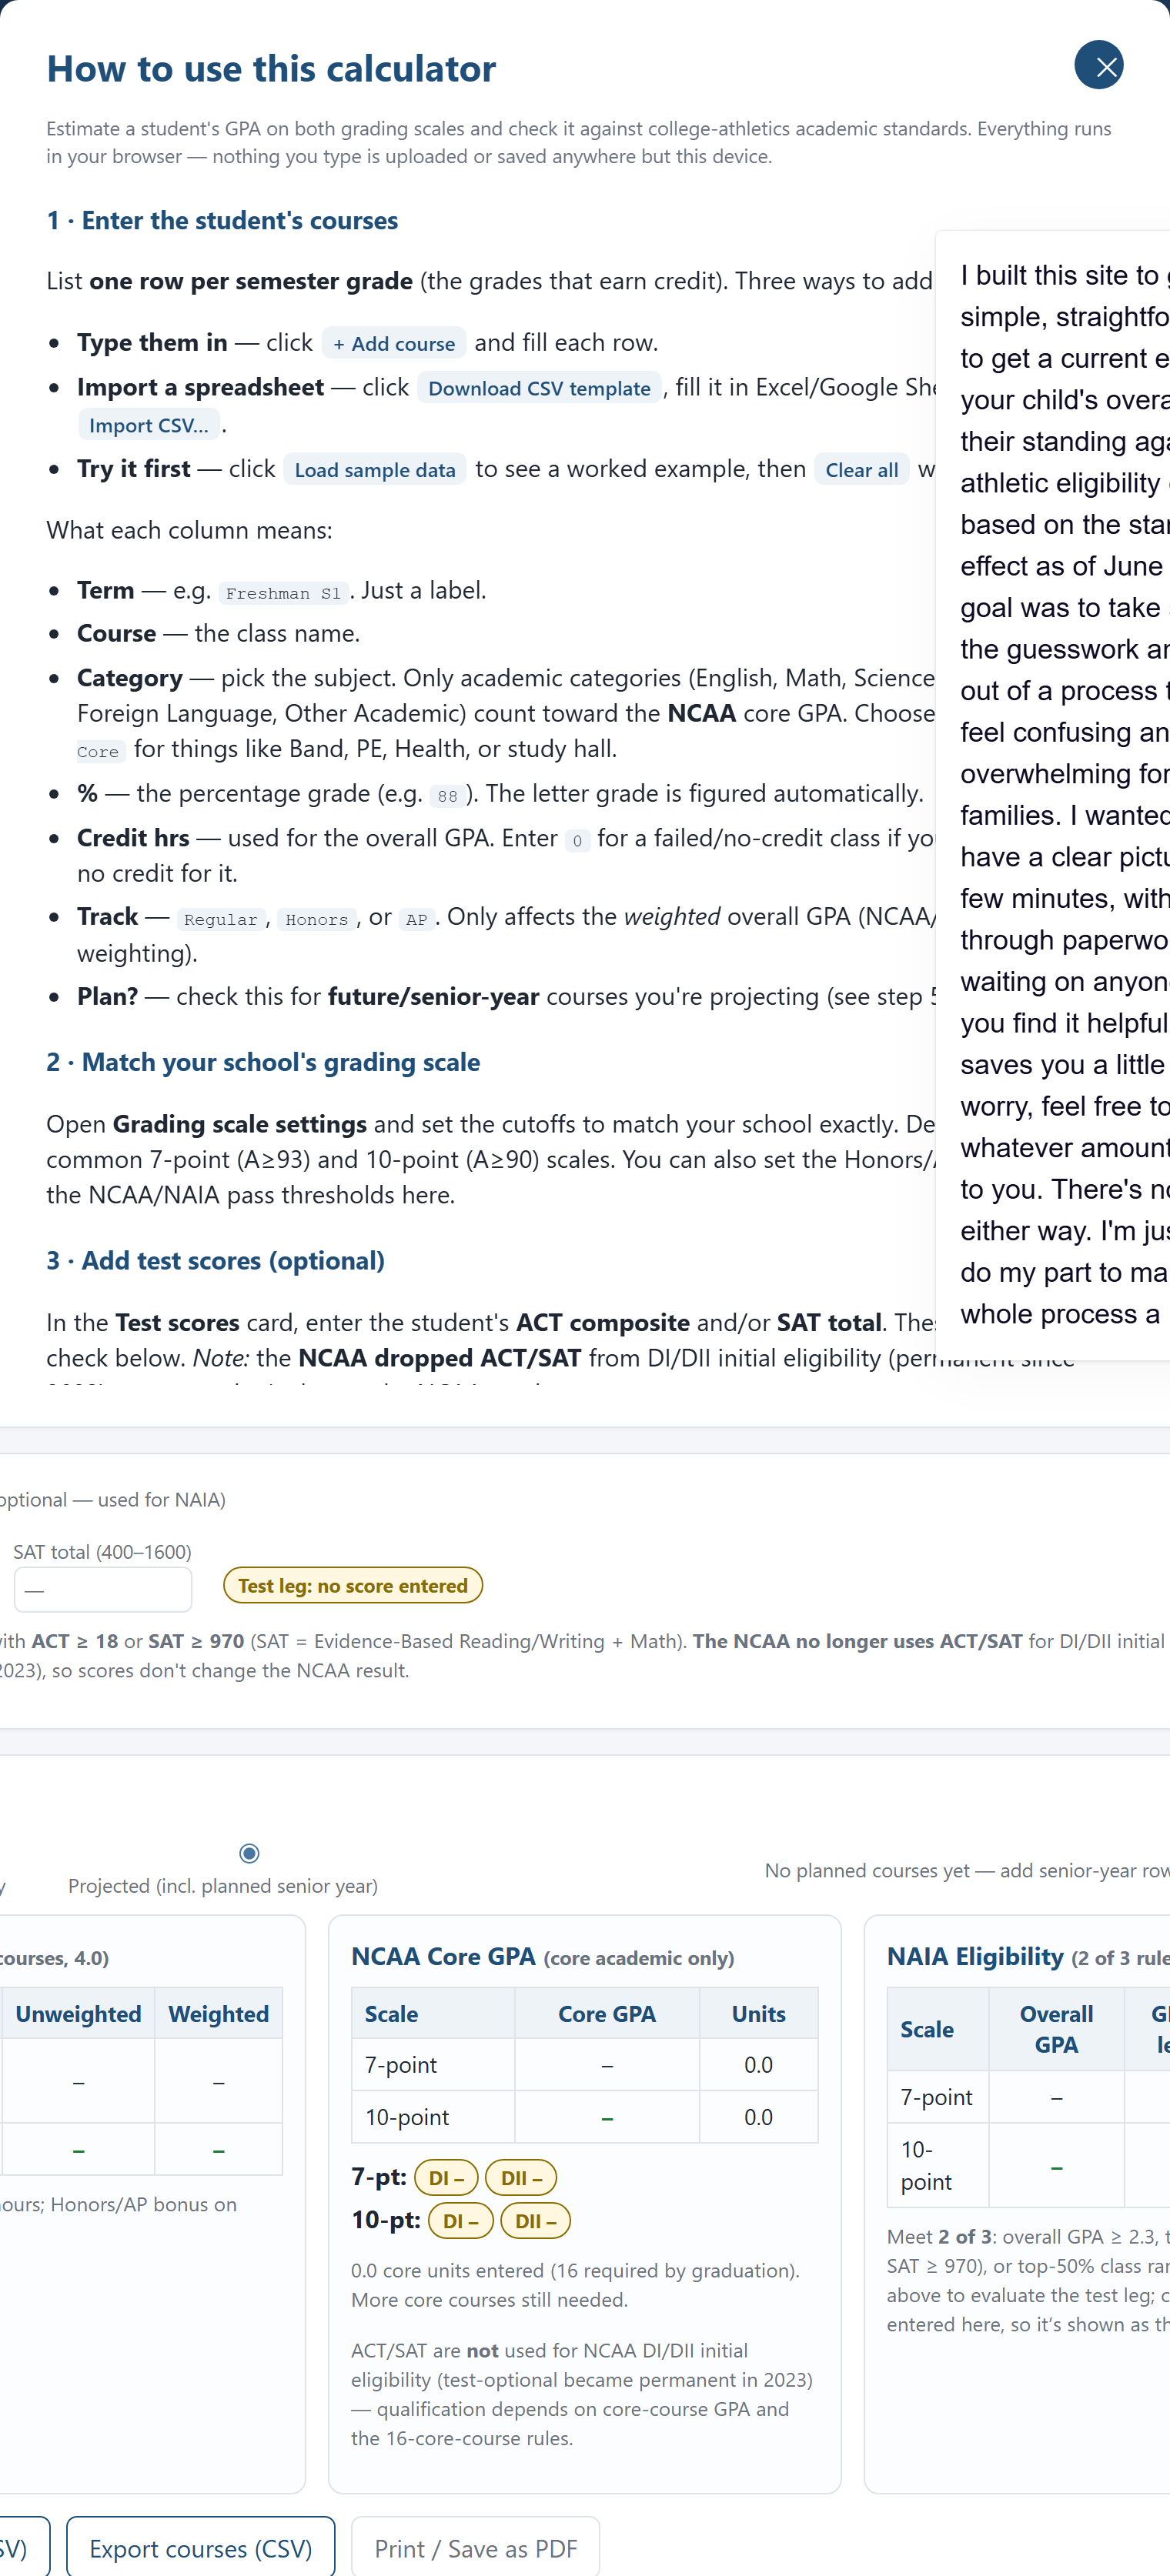
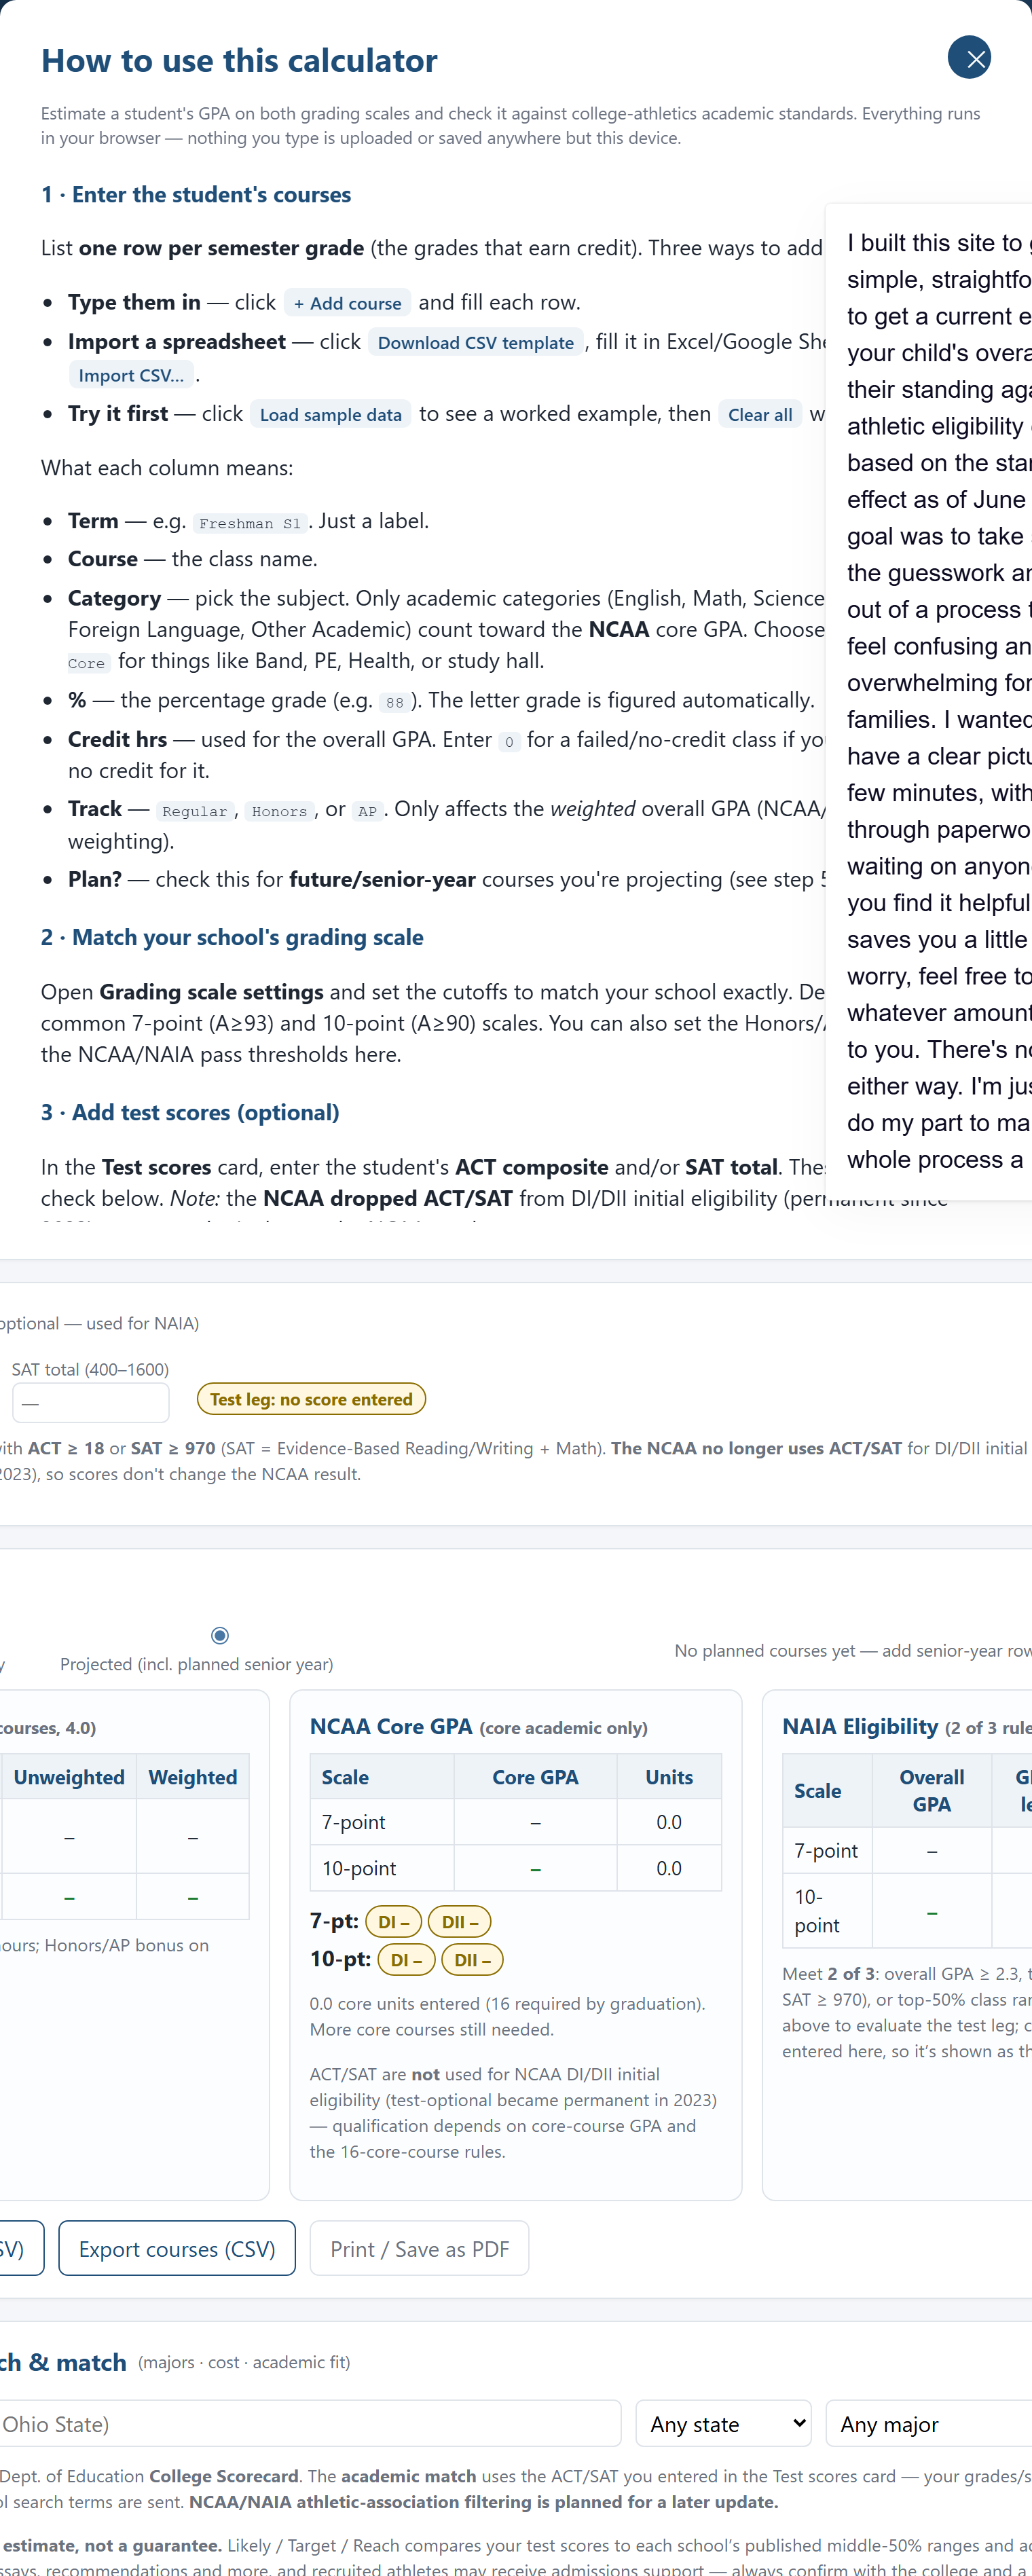
Add College search & match (Phase 1) via College Scorecard
- New card: live search of 4-year colleges by name/state/major using the
  U.S. Dept of Education College Scorecard API (CORS-enabled, free key).
- Shows cost (net price + tuition), admission rate, SAT/ACT mid-50% ranges,
  undergrad size, and the selected major's share of degrees.
- Academic match (Likely/Target/Reach) from the entered ACT/SAT vs each
  school's ranges and selectivity; updates live when scores change.
- Filters to bachelor-granting institutions; sorts by size. Privacy: only
  search terms are sent, scores stay local. Clear estimate-not-a-guarantee
  disclaimers. NCAA/NAIA association filter planned for Phase 2.
- Help guide, README, and screenshots updated.

diff --git a/index.html b/index.html
@@ -83,6 +83,16 @@
   .modal code{background:#eef3f8;padding:1px 5px;border-radius:4px;font-size:.88em}
   .modal .tag{display:inline-block;background:#eef3f8;color:var(--navy);border-radius:6px;padding:1px 7px;font-size:.82rem;font-weight:600;margin:1px}
   .modal .pass{background:var(--greenbg);color:var(--green)} .modal .fail{background:var(--redbg);color:var(--red)}
+  .modal .tag.likely{background:var(--greenbg);color:var(--green)} .modal .tag.target{background:var(--amberbg);color:var(--amber)} .modal .tag.reach{background:var(--redbg);color:var(--red)}
+  .college{border:1px solid var(--line);border-radius:9px;padding:10px 12px;margin:8px 0;background:#fcfdff}
+  .college .top{display:flex;justify-content:space-between;align-items:center;gap:10px;flex-wrap:wrap}
+  .college .nm{font-weight:700;color:var(--navy)}
+  .college .nm a{color:var(--navy)}
+  .college .meta{display:flex;flex-wrap:wrap;gap:6px 16px;margin-top:6px;font-size:.85rem}
+  .college .meta b{color:var(--navy)}
+  .badge.likely{background:var(--greenbg);color:var(--green);border:1px solid var(--green)}
+  .badge.target{background:var(--amberbg);color:var(--amber);border:1px solid var(--amber)}
+  .badge.reach{background:var(--redbg);color:var(--red);border:1px solid var(--red)}
 </style>
 </head>
 <body>
@@ -138,7 +148,10 @@
     <h3>5 · Project the senior year (optional)</h3>
     <p>Add upcoming courses with the <b>Plan?</b> box checked (or use <span class="tag">+ Add planned (senior) course</span>). Then use the <b>View</b> toggle above the results to switch between <b>Completed only</b> and <b>Projected (incl. planned)</b> to see where the GPA is headed at graduation.</p>
 
-    <h3>6 · Save or share</h3>
+    <h3>6 · Explore colleges (optional)</h3>
+    <p>In the <b>College search &amp; match</b> card, search by school name, state, and/or major. Each result shows <b>cost</b> (net price &amp; tuition), <b>admission rate</b>, and the school's <b>SAT/ACT middle-50%</b> ranges, with a link to the school. If you've entered ACT/SAT above, you'll also get an <b>academic match</b> badge — <span class="tag likely">Likely</span> <span class="tag target">Target</span> <span class="tag reach">Reach</span> — based on how your scores compare to that school's ranges and selectivity. It's an <i>estimate</i>, not a guarantee (recruited athletes may get extra admissions support). Data is the federal College Scorecard; only your search terms are sent — your scores stay in your browser.</p>
+
+    <h3>7 · Save or share</h3>
     <ul>
       <li><span class="tag">Export results (CSV)</span> — the GPA/eligibility summary.</li>
       <li><span class="tag">Export courses (CSV)</span> — your course list to reopen later.</li>
@@ -275,6 +288,20 @@
     </div>
   </div>
 
+  <!-- College search & match -->
+  <div class="card">
+    <h2>🎓 College search &amp; match <span class="small" style="font-weight:normal;color:var(--muted)">(majors · cost · academic fit)</span></h2>
+    <div class="row noprint" style="gap:10px">
+      <input id="cSchool" placeholder="School name (e.g. Ohio State)" style="flex:1;min-width:180px" onkeydown="if(event.key==='Enter')searchColleges()">
+      <select id="cState" style="width:130px"></select>
+      <select id="cMajor" style="width:200px"></select>
+      <button class="sec" onclick="searchColleges()">Search</button>
+    </div>
+    <p class="note">Live data from the U.S. Dept. of Education <b>College Scorecard</b>. The <b>academic match</b> uses the ACT/SAT you entered in the Test scores card — your grades/scores stay in your browser; only the school search terms are sent. <b>NCAA/NAIA athletic-association filtering is planned for a later update.</b></p>
+    <div id="cResults" style="margin-top:8px"></div>
+    <p class="note"><b>Academic match is an estimate, not a guarantee.</b> Likely / Target / Reach compares your test scores to each school’s published middle-50% ranges and admission rate. Real decisions weigh GPA, essays, recommendations and more, and recruited athletes may receive admissions support — always confirm with the college and a counselor.</p>
+  </div>
+
   <div class="card">
     <details><summary>Methodology &amp; disclaimers</summary>
       <div class="small" style="margin-top:10px">
@@ -394,6 +421,7 @@ function compute(){
   naiaRow('na7g','na7b', oh?o7u/oh:null, naiaMin, testEntered, testPass);
   naiaRow('na10g','na10b', oh?o10u/oh:null, naiaMin, testEntered, testPass);
 
+  refreshCollegeMatch();
   const vi=document.getElementById('viewInfo');
   if(vi) vi.textContent = planned
     ? (viewMode==='projected' ? `Projected — includes ${planned} planned course${planned>1?'s':''}` : `Completed only — ${planned} planned course${planned>1?'s':''} hidden`)
@@ -422,6 +450,100 @@ function naiaRow(gId,bId,gpa,min,testEntered,testPass){
 function saveTests(){ try{ localStorage.setItem('naiaTests', JSON.stringify({act:val('act'),sat:val('sat')})); }catch(e){} }
 function loadTests(){ try{ const s=JSON.parse(localStorage.getItem('naiaTests')||'{}'); if(s.act)document.getElementById('act').value=s.act; if(s.sat)document.getElementById('sat').value=s.sat; }catch(e){} }
 function val(id){ return document.getElementById(id).value; }
+
+/* ---------- College search & match (U.S. Dept of Education College Scorecard) ---------- */
+const SCORECARD_KEY='DEMO_KEY'; // FREE shared demo key (heavily rate-limited). Get your own at https://api.data.gov/signup/ and replace this.
+const SC_BASE='https://api.data.gov/ed/collegescorecard/v1/schools';
+const SC_MAJORS=[['Any major',''],['Business & Marketing','business_marketing'],['Engineering','engineering'],['Computer & IT','computer'],['Biological Sciences','biological'],['Health Professions','health'],['Psychology','psychology'],['Education','education'],['Visual & Performing Arts','visual_performing'],['Communications','communication'],['Social Sciences','social_science'],['Mathematics','mathematics'],['English / Language','english'],['Physical Sciences','physical_science'],['Agriculture','agriculture'],['Criminal Justice / Law Enf.','security_law_enforcement']];
+const SC_STATES=['AL','AK','AZ','AR','CA','CO','CT','DE','DC','FL','GA','HI','ID','IL','IN','IA','KS','KY','LA','ME','MD','MA','MI','MN','MS','MO','MT','NE','NV','NH','NJ','NM','NY','NC','ND','OH','OK','OR','PA','RI','SC','SD','TN','TX','UT','VT','VA','WA','WV','WI','WY'];
+let _scRows=null,_scMajor='';
+function initCollege(){
+  const st=document.getElementById('cState'), mj=document.getElementById('cMajor');
+  if(st && !st.options.length) st.innerHTML='<option value="">Any state</option>'+SC_STATES.map(s=>`<option>${s}</option>`).join('');
+  if(mj && !mj.options.length) mj.innerHTML=SC_MAJORS.map(m=>`<option value="${m[1]}">${m[0]}</option>`).join('');
+}
+function majorLabel(key){ const m=SC_MAJORS.find(x=>x[1]===key); return m?m[0]:'Major'; }
+async function searchColleges(){
+  const name=val('cSchool').trim(), state=val('cState'), major=val('cMajor');
+  const box=document.getElementById('cResults');
+  if(!name && !state && !major){ box.innerHTML='<p class="note">Enter a school name, pick a state, or choose a major to search.</p>'; return; }
+  box.innerHTML='<p class="note">Searching…</p>';
+  const fields=['id','school.name','school.city','school.state','school.school_url','latest.student.size',
+    'school.degrees_awarded.predominant','school.degrees_awarded.highest',
+    'latest.admissions.admission_rate.overall',
+    'latest.admissions.sat_scores.25th_percentile.critical_reading','latest.admissions.sat_scores.25th_percentile.math',
+    'latest.admissions.sat_scores.75th_percentile.critical_reading','latest.admissions.sat_scores.75th_percentile.math',
+    'latest.admissions.act_scores.25th_percentile.cumulative','latest.admissions.act_scores.75th_percentile.cumulative',
+    'latest.cost.avg_net_price.public','latest.cost.avg_net_price.private','latest.cost.tuition.in_state','latest.cost.tuition.out_of_state'];
+  if(major) fields.push('latest.academics.program_percentage.'+major);
+  const p=new URLSearchParams();
+  p.set('api_key',SCORECARD_KEY);
+  if(name) p.set('school.name',name);
+  if(state) p.set('school.state',state);
+  p.set('school.operating','1'); p.set('fields',fields.join(',')); p.set('per_page','50');
+  try{
+    const res=await fetch(SC_BASE+'?'+p.toString());
+    if(!res.ok) throw new Error('HTTP '+res.status+(res.status===429?' — demo key rate limit reached; add your own free api.data.gov key':''));
+    const d=await res.json();
+    let rows=d.results||[];
+    // keep 4-year (bachelor's+) institutions — the NCAA/NAIA universe
+    rows=rows.filter(r=>(+r['school.degrees_awarded.highest']||0)>=3);
+    if(major){ const k='latest.academics.program_percentage.'+major; rows=rows.filter(r=>(+r[k]||0)>0); }
+    rows.sort((a,b)=>(+b['latest.student.size']||0)-(+a['latest.student.size']||0));
+    renderColleges(rows.slice(0,20), major);
+  }catch(e){ box.innerHTML='<p class="note" style="color:var(--red)">Search failed: '+esc(e.message)+'. Check your connection or try again.</p>'; }
+}
+function scPct(x){ return x!=null?Math.round(x*100)+'%':'—'; }
+function scMoney(x){ return x!=null?'$'+(+x).toLocaleString():'—'; }
+function satRange(r){ const a=r['latest.admissions.sat_scores.25th_percentile.critical_reading'],b=r['latest.admissions.sat_scores.25th_percentile.math'],c=r['latest.admissions.sat_scores.75th_percentile.critical_reading'],e=r['latest.admissions.sat_scores.75th_percentile.math']; return (a&&b&&c&&e)?[a+b,c+e]:null; }
+function actRange(r){ const a=r['latest.admissions.act_scores.25th_percentile.cumulative'],b=r['latest.admissions.act_scores.75th_percentile.cumulative']; return (a&&b)?[a,b]:null; }
+function matchLabel(r){
+  const userSAT=num('sat'), userACT=num('act'), ar=r['latest.admissions.admission_rate.overall'];
+  const sr=satRange(r), arr=actRange(r);
+  let pos=null;
+  if(userSAT>0 && sr) pos=userSAT>=sr[1]?'high':userSAT>=sr[0]?'mid':'low';
+  else if(userACT>0 && arr) pos=userACT>=arr[1]?'high':userACT>=arr[0]?'mid':'low';
+  let label = pos==='high'?'Likely':pos==='mid'?'Target':pos==='low'?'Reach':null;
+  if(label && ar!=null){
+    if(ar<0.25) label = (label==='Likely')?'Target':'Reach';
+    else if(ar>=0.85 && pos!=='low') label='Likely';
+  }
+  if(!label){
+    if(userSAT<=0 && userACT<=0) return ['','Add ACT/SAT above for a match estimate','pend'];
+    if(ar!=null && ar>=0.85) return ['Likely','High admission rate','likely'];
+    return ['','School reports no test data','pend'];
+  }
+  return [label,'', label==='Likely'?'likely':label==='Target'?'target':'reach'];
+}
+function renderColleges(rows, major){
+  _scRows=rows; _scMajor=major;
+  const box=document.getElementById('cResults');
+  if(!rows.length){ box.innerHTML='<p class="note">No matching schools found. Try a different name'+(major?' or major':'')+'.</p>'; return; }
+  box.innerHTML = rows.map(r=>{
+    const url=r['school.school_url']; const link=url?('https://'+(''+url).replace(/^https?:\/\//,'')):null;
+    const sr=satRange(r), arr=actRange(r);
+    const net=r['latest.cost.avg_net_price.public']!=null?r['latest.cost.avg_net_price.public']:r['latest.cost.avg_net_price.private'];
+    const [ml,mtip,mcls]=matchLabel(r);
+    const majShare = major? r['latest.academics.program_percentage.'+major]:null;
+    return `<div class="college">
+      <div class="top">
+        <div class="nm">${link?`<a href="${link}" target="_blank" rel="noopener">${esc(r['school.name'])} ↗</a>`:esc(r['school.name'])}</div>
+        <span class="badge ${mcls}"${mtip?` title="${esc(mtip)}"`:''}>${ml?('Match: '+ml):mtip}</span>
+      </div>
+      <div class="meta">
+        <span>${esc(r['school.city']||'')}, ${esc(r['school.state']||'')}</span>
+        <span><b>Admit rate:</b> ${scPct(r['latest.admissions.admission_rate.overall'])}</span>
+        <span><b>SAT mid-50:</b> ${sr?sr[0]+'–'+sr[1]:'—'}</span>
+        <span><b>ACT mid-50:</b> ${arr?arr[0]+'–'+arr[1]:'—'}</span>
+        <span><b>Avg net price:</b> ${scMoney(net)}/yr</span>
+        <span><b>Tuition in/out:</b> ${scMoney(r['latest.cost.tuition.in_state'])} / ${scMoney(r['latest.cost.tuition.out_of_state'])}</span>
+        ${r['latest.student.size']!=null?`<span><b>Undergrads:</b> ${(+r['latest.student.size']).toLocaleString()}</span>`:''}
+        ${majShare!=null?`<span><b>${esc(majorLabel(major))}:</b> ${(majShare*100).toFixed(1)}% of degrees</span>`:''}
+      </div>
+    </div>`;
+  }).join('');
+}
+function refreshCollegeMatch(){ if(_scRows) renderColleges(_scRows,_scMajor); }
 
 /* ---------- CSV ---------- */
 const HEADERS=["Term","Course","Category","Percent","CreditHours","Track","Planned"];
@@ -525,6 +647,7 @@ document.querySelectorAll('.settings input').forEach(el=>el.addEventListener('in
 
 load();
 loadTests();
+initCollege();
 if(!data.length) data=[blankRow(),blankRow(),blankRow()];
 render();
 </script>

diff --git a/README.md b/README.md
@@ -7,6 +7,7 @@ grading scale and computes:
 - **NCAA core-course GPA** — core academics only, unweighted, with live **Division I (≥2.3)** and **Division II (≥2.2)** PASS/FAIL checks
 - **NAIA eligibility** — evaluates the **"2 of 3"** rule using overall GPA, **ACT/SAT test scores**, and (informationally) class rank
 - **ACT / SAT input** — feeds NAIA's test leg (ACT ≥ 18 / SAT ≥ 970). *The NCAA dropped test scores from DI/DII initial eligibility in 2023, so they don't affect the NCAA result — the app notes this.*
+- **College search & match** — live search of U.S. colleges (federal **College Scorecard**) by name / state / major, showing **cost, admission rate, SAT/ACT ranges**, plus an **academic match** (Likely / Target / Reach) based on the ACT/SAT entered
 - **Senior-year projection** — flag planned courses and toggle between *Completed only* and *Projected at graduation*
 
 Everything runs **client-side** — no server, no data leaves the browser. Suitable for student
@@ -22,6 +23,10 @@ records (FERPA-friendly).
 | Enter courses | Results & eligibility |
 |:---:|:---:|
 | ![Course entry with sample data](docs/screenshot-overview.png) | ![GPA results with NCAA DI/DII and NAIA checks](docs/screenshot-results.png) |
+
+**College search & match** — live cost, admission rate, SAT/ACT ranges, and a Likely/Target/Reach estimate:
+
+![College search and academic match](docs/screenshot-colleges.png)
 
 Built-in **How to use** guide (opens automatically on first visit):
 
@@ -69,7 +74,14 @@ Add upcoming courses with the **Plan?** box checked (or use **+ Add planned (sen
 use the **View** toggle above the results to switch between **Completed only** and
 **Projected (incl. planned)** to see where the GPA is headed at graduation.
 
-### 6. Save or share
+### 6. Explore colleges (optional)
+In **College search & match**, search by school name, state, and/or major. Each result shows **cost** (net price & tuition), **admission rate**, and **SAT/ACT middle-50%** ranges, with a link to the school. If you entered ACT/SAT, you also get an **academic match** badge — **Likely / Target / Reach** — comparing your scores to the school's ranges and selectivity.
+- *Estimate only*, not a guarantee; recruited athletes may receive extra admissions support.
+- Data: U.S. Dept. of Education **College Scorecard**. Only your search terms are sent — your grades/scores stay in the browser.
+- Uses a free `api.data.gov` key. The app ships with the shared `DEMO_KEY` (heavily rate-limited); for real use, get a free key at <https://api.data.gov/signup/> and replace `SCORECARD_KEY` in `index.html`.
+- *Coming later:* an NCAA/NAIA athletic-association + division filter.
+
+### 7. Save or share
 - **Export results (CSV)** — the GPA/eligibility summary (includes ACT/SAT and NAIA status).
 - **Export courses (CSV)** — your course list, to reopen later.
 - **Print / Save as PDF** — a clean printout for a counselor or coach.